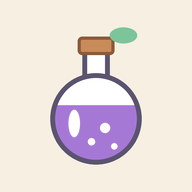
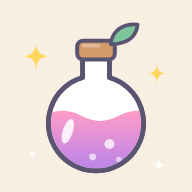
Add files via upload

diff --git a/js/main.js b/js/main.js
@@ -110,7 +110,29 @@
   function registerServiceWorker() {
     if (!('serviceWorker' in navigator)) return;
     if (!/^https?:$/.test(location.protocol)) return;
-    navigator.serviceWorker.register('./sw.js').catch(e => console.warn('Service Worker の登録に失敗', e));
+    // すでに前の版が動いていたかどうか（初めて開いたときは「新しい版」の案内を出さない）
+    const hadController = !!navigator.serviceWorker.controller;
+    navigator.serviceWorker.register('./sw.js').then(reg => {
+      // アプリに戻ってきたときにも、新しい版が出ていないか確かめる
+      document.addEventListener('visibilitychange', () => { if (!document.hidden) reg.update().catch(() => {}); });
+    }).catch(e => console.warn('Service Worker の登録に失敗', e));
+    // 新しい版の準備ができたら、画面の下に案内を出す（タップで切り替え）
+    navigator.serviceWorker.addEventListener('controllerchange', () => { if (hadController) showUpdateBar(); });
+  }
+
+  function showUpdateBar() {
+    if (ui.$('#update-bar')) return;
+    const bar = document.createElement('button');
+    bar.id = 'update-bar';
+    bar.className = 'update-bar';
+    bar.innerHTML = '<span>✨ 新しいバージョンがあります</span><b>タップで更新</b>';
+    bar.addEventListener('click', async () => {
+      bar.disabled = true;
+      bar.querySelector('b').textContent = '更新中…';
+      await PS.store.flush();   // 遊んでいた内容を保存してから切り替える
+      location.reload();
+    });
+    document.body.appendChild(bar);
   }
 
   boot().catch(e => {

diff --git a/sw.js b/sw.js
@@ -6,7 +6,7 @@
  *   1) 下の CACHE_VERSION の数字を上げる（古いキャッシュが自動で消える）
  *   2) 新しいファイルは PRECACHE に追加する
  */
-const CACHE_VERSION = 'v1.0.0';
+const CACHE_VERSION = 'v1.0.2';
 const CACHE_NAME = 'potion-shop-' + CACHE_VERSION;
 
 const PRECACHE = [
@@ -17,6 +17,7 @@ const PRECACHE = [
   './icons/icon-192.png',
   './icons/icon-512.png',
   './icons/icon-maskable-512.png',
+  './icons/apple-touch-icon.png',
   './js/namespace.js',
   './data/balance.js',
   './data/materials.js',
@@ -61,7 +62,11 @@ const PRECACHE = [
 ];
 
 self.addEventListener('install', event => {
-  event.waitUntil(caches.open(CACHE_NAME).then(c => c.addAll(PRECACHE)).then(() => self.skipWaiting()));
+  // cache:'reload'：ブラウザの一時保存を使わず、必ずサーバーから最新のファイルを取ってくる
+  // （GitHub Pages はファイルを10分ほど一時保存させるため、古いファイルが混ざらないように）
+  event.waitUntil(caches.open(CACHE_NAME)
+    .then(c => c.addAll(PRECACHE.map(u => new Request(u, { cache: 'reload' }))))
+    .then(() => self.skipWaiting()));
 });
 
 self.addEventListener('activate', event => {

diff --git a/css/style.css b/css/style.css
@@ -48,6 +48,11 @@ h1, h2, h3, p { margin: 0; }
 .inv-chip.r3 { border-color: #f0dc8a; } .inv-chip.r4 { border-color: #f8bfd9; }
 .inv-icon { width: 24px; height: 24px; display: inline-flex; }
 .inv-icon svg { width: 100%; height: 100%; }
+/* 新しいバージョンの案内（上のタイトルのすぐ下） */
+.update-bar { position: fixed; left: 50%; top: calc(var(--top-h) + var(--safe-t) + 8px); transform: translateX(-50%); z-index: 90;
+  display: flex; align-items: center; gap: 10px; white-space: nowrap; border: 0; border-radius: 999px; padding: 10px 16px;
+  background: #5b5470; color: #fff; font: inherit; font-size: 13px; box-shadow: 0 4px 14px rgba(91,84,112,.35); animation: sheetUp .3s ease-out; }
+.update-bar b { background: #f5c542; color: #5b5470; border-radius: 999px; padding: 3px 10px; font-size: 12px; }
 /* 設定画面のセレクト */
 .bgm-hint { font-size: 11.5px; color: var(--ink-soft); line-height: 1.5; margin: -2px 0 8px; }
 #bgm-song { font: inherit; font-size: 14px; color: var(--ink); background: #fff; border: 2px solid var(--line); border-radius: 10px; padding: 5px 8px; }

diff --git a/js/ui/placeholders.js b/js/ui/placeholders.js
@@ -1,0 +1,16 @@
+/* まだ実装していない画面（タブの位置だけ先に用意しておく） */
+(function (PS) {
+  'use strict';
+  const ui = PS.ui;
+
+  function soon(el, title, step, text) {
+    el.innerHTML = `<div class="screen-head"><h2>${title}</h2></div>
+      <div class="soon"><div class="soon-art">${PS.assets.art.render('coin')}</div>
+      <p><b>準備中</b>（${step}で実装予定）</p><p class="sub">${text}</p></div>`;
+  }
+
+  ui.registerScreen({
+    id: 'upgrade', label: '強化', icon: '🔨',
+    mount(el) { soon(el, '強化', 'STEP 6', '売上のコインで採取や設備を強化できるようになります。'); },
+  });
+})(window.PS);

diff --git a/index.html b/index.html
@@ -8,7 +8,7 @@
   <title>ふしぎなポーション工房</title>
   <link rel="manifest" href="manifest.webmanifest">
   <link rel="icon" href="icons/icon-192.png" type="image/png">
-  <link rel="apple-touch-icon" href="icons/icon-192.png">
+  <link rel="apple-touch-icon" href="icons/apple-touch-icon.png">
   <meta name="apple-mobile-web-app-capable" content="yes">
   <meta name="mobile-web-app-capable" content="yes">
   <meta name="apple-mobile-web-app-status-bar-style" content="default">

diff --git a/js/namespace.js b/js/namespace.js
@@ -11,7 +11,7 @@
  *   index.html をダブルクリックするだけ（file://）でも動作確認できるようにするため。
  */
 window.PS = window.PS || {
-  VERSION: '1.0.0',
+  VERSION: '1.0.2',
   data: {},
   assets: {},
   core: {},

diff --git a/README.md b/README.md
@@ -1,4 +1,4 @@
-# ふしぎなポーション工房（v1.0.0）
+# ふしぎなポーション工房（v1.0.2）
 
 薬草を摘んで、自由に調合して、名前を付けて図鑑に登録する、ポーション屋さんゲームです。
 採取 → 調合 → ランダムなポーション生成 → 命名 → 図鑑 → お店で自動販売 → 設備強化・自動採取 の流れに、
@@ -224,10 +224,22 @@ js/main.js            起動処理
 
 ## 更新履歴
 
+- **v1.0.2**：アプリアイコンを新しくした（葉っぱ付きコルクの丸いフラスコを1本の線でつなげ、ピンク→紫の液体と星を追加）。iPhone 用のアイコンも追加
+- **v1.0.1**：新しいバージョンを公開すると、アプリの下に「新しいバージョンがあります　タップで更新」と出るように（タップで保存してから切り替え）
 - **v1.0.0**：仕上げ。使っていない見た目の指定・処理を整理、全画面を3つの画面サイズで確認、オフライン起動と大量データ（ポーション600種類・レビュー100件）での動作を確認
 - **v0.12.0**：タイトルを「ふしぎなポーション工房」に変更。BGM を追加（その場で合成。標準は「時間で切り替え」：朝・昼・夕方は「ピクニック」、夜 19時〜5時は「のどかな草原」）。設定画面でオン・オフ・曲・音量を変えられる
 - **v0.11.0**：薬草園を作り直し（空と丘、朝・昼・夕方・夜で変わる景色、夜はホタル）。たまに起きる出来事（蝶々・てんとう虫・光る芽・にわか雨、平均5分に1回）。持ち物は「かご」ボタンにまとめ、数は 1.2k / 3.4M 表示。下部メニューのアイコンを SVG に
 - **v0.10 以前**：採取・調合・ポーション生成・命名・図鑑・お店・レビュー・強化・自動採取・セーブデータの書き出し／読み込み
+
+## 公開・アップデートのしかた（GitHub Pages）
+
+1. GitHub で Public のリポジトリを作る
+2. このフォルダ（potion-shop）の**中身**をリポジトリにドラッグ＆ドロップして「Commit changes」
+3. Settings → Pages → Source「Deploy from a branch」、Branch「main」「/(root)」で Save
+4. `https://ユーザー名.github.io/リポジトリ名/` を開き、スマホでは「ホーム画面に追加」
+
+アップデートは、新しいファイルを同じリポジトリに上書きでアップロードするだけ（`sw.js` の `CACHE_VERSION` を必ず上げる）。
+遊んでいる人の画面には「新しいバージョンがあります」と出て、タップすると切り替わります。セーブデータはそのまま残ります。
 
 ## 次の予定
 
